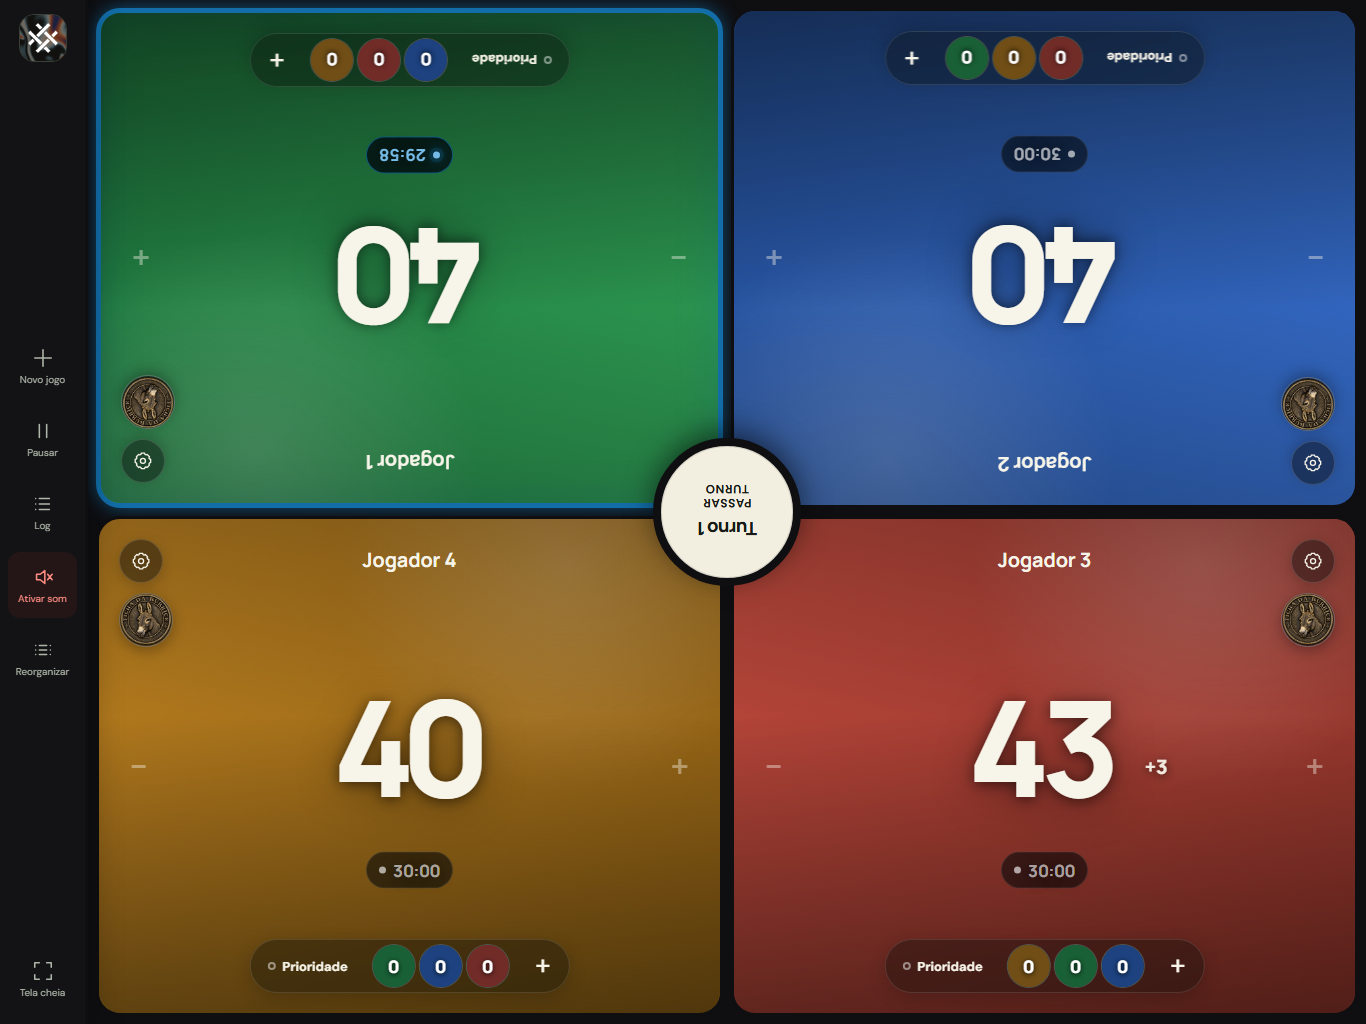
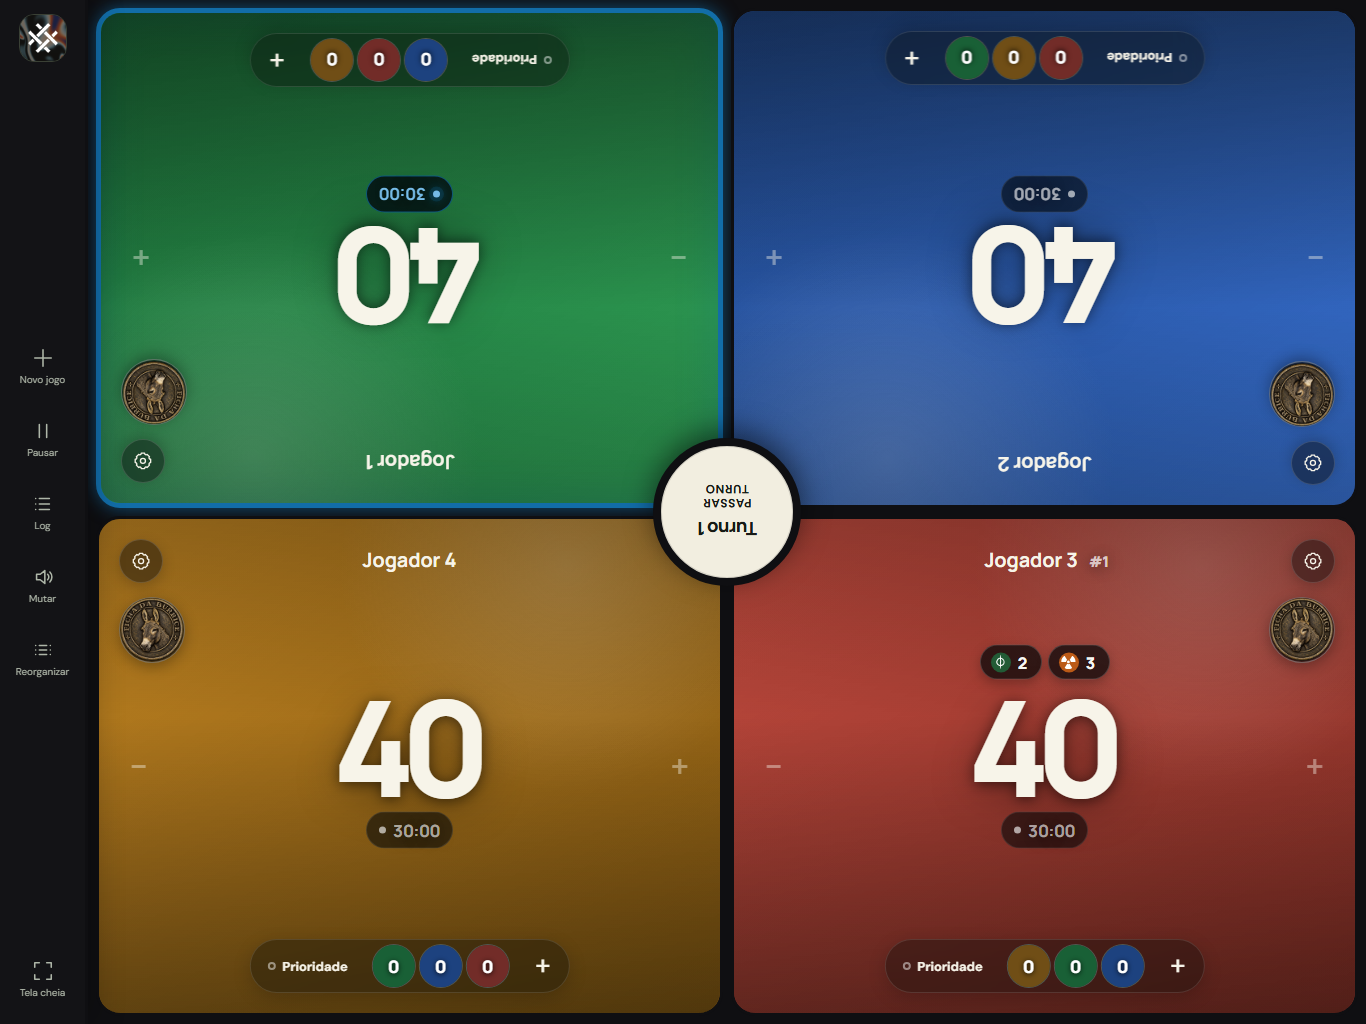
Refine iPad interactions and player status layout
Amp-Thread-ID: https://ampcode.com/threads/T-01a0a220-c48b-71fd-86de-72f752ff429f

diff --git a/app.js b/app.js
@@ -613,7 +613,8 @@ function moveNamesClearOfTurnButton() {
     card.classList.remove('name-near-center');
     const inputRect = input.getBoundingClientRect();
     textContext.font = getComputedStyle(input).font;
-    const textWidth = Math.min(inputRect.width, textContext.measureText(input.value).width + 8);
+    const displayedName = input instanceof HTMLInputElement ? input.value : input.textContent;
+    const textWidth = Math.min(inputRect.width, textContext.measureText(displayedName).width + 8);
     const nameRect = {
       top: inputRect.top,
       right: inputRect.left + (inputRect.width + textWidth) / 2,
@@ -629,6 +630,48 @@ function moveNamesClearOfTurnButton() {
       : buttonRect.bottom - nameRect.top + 8;
     name.style.top = `${parseFloat(getComputedStyle(name).top) + clearance}px`;
     card.classList.add('name-near-center');
+  });
+}
+
+function bindPlayerNameButton(button, player, fallbackName) {
+  button.textContent = player.name;
+  button.addEventListener('click', (event) => {
+    event.stopPropagation();
+    const input = document.createElement('input');
+    input.className = 'player-name is-editing';
+    input.maxLength = 20;
+    input.setAttribute('aria-label', 'Nome do jogador');
+    input.value = player.name;
+    const sizeNameInput = () => {
+      input.style.width = `${Math.min(21, Math.max(3, input.value.length + 1))}ch`;
+    };
+    sizeNameInput();
+    button.replaceWith(input);
+    input.focus({ preventScroll: true });
+    input.select();
+    let finished = false;
+    const finish = (saveChanges = true) => {
+      if (finished) return;
+      finished = true;
+      if (saveChanges) {
+        player.name = input.value.trim() || fallbackName;
+        savePlayerProfile(player);
+        saveState();
+      }
+      const nextButton = document.createElement('button');
+      nextButton.type = 'button';
+      nextButton.className = 'player-name';
+      nextButton.setAttribute('aria-label', 'Editar nome do jogador');
+      input.replaceWith(nextButton);
+      bindPlayerNameButton(nextButton, player, fallbackName);
+      moveNamesClearOfTurnButton();
+    };
+    input.addEventListener('blur', () => finish());
+    input.addEventListener('input', sizeNameInput);
+    input.addEventListener('keydown', (keyEvent) => {
+      if (keyEvent.key === 'Enter') input.blur();
+      if (keyEvent.key === 'Escape') finish(false);
+    });
   });
 }
 
@@ -662,16 +705,10 @@ function render() {
       card.classList.add('has-image');
     }
 
-    const nameInput = card.querySelector('.player-name');
-    nameInput.disabled = isReordering;
-    nameInput.value = player.name;
-    nameInput.addEventListener('click', (event) => event.stopPropagation());
-    nameInput.addEventListener('change', () => {
-      player.name = nameInput.value.trim() || `Jogador ${index + 1}`;
-      nameInput.value = player.name;
-      savePlayerProfile(player);
-      saveState();
-    });
+    const nameButton = card.querySelector('.player-name');
+    nameButton.disabled = isReordering;
+    bindPlayerNameButton(nameButton, player, `Jogador ${index + 1}`);
+    card.querySelector('.first-player-mark').hidden = player.id !== state.roundStartPlayerId;
 
     card.querySelector('.life-total').textContent = player.life;
     card.querySelector('.timer-value').textContent = formatTime(player.timerSeconds);

diff --git a/styles.css b/styles.css
@@ -263,7 +263,8 @@ input, textarea { -webkit-user-select: text; user-select: text; }
 
 .player-name {
   min-width: 0;
-  flex: 1;
+  max-width: 100%;
+  flex: 0 1 auto;
   padding: 2px 4px 4px;
   border: 0;
   border-bottom: 1px solid transparent;
@@ -271,10 +272,21 @@ input, textarea { -webkit-user-select: text; user-select: text; }
   background: transparent;
   color: inherit;
   font: 700 clamp(.9rem, 4cqh, 1.35rem) 'Manrope', sans-serif;
+  cursor: pointer;
   text-align: center;
   text-overflow: ellipsis;
+  white-space: nowrap;
+  overflow: hidden;
 }
-.player-name:focus { border-bottom-color: rgba(255,255,255,.55); }
+.player-name.is-editing { cursor: text; }
+.player-name.is-editing:focus { border-bottom-color: rgba(255,255,255,.55); }
+.first-player-mark {
+  flex: 0 0 auto;
+  color: rgba(255,255,255,.72);
+  font: italic 800 clamp(.7rem, 3cqh, .95rem) 'Manrope', sans-serif;
+  letter-spacing: -.03em;
+}
+.first-player-mark[hidden] { display: none; }
 
 .life-total {
   position: relative;
@@ -295,7 +307,7 @@ input, textarea { -webkit-user-select: text; user-select: text; }
 
 .turn-timer {
   position: absolute;
-  top: 71%;
+  top: 63%;
   bottom: auto;
   display: flex;
   align-items: center;
@@ -371,9 +383,9 @@ input, textarea { -webkit-user-select: text; user-select: text; }
 .foolish-token {
   position: absolute;
   z-index: 4;
-  top: calc(max(12px, 4cqh) + 54px);
-  width: clamp(42px, 12cqh, 54px);
-  height: clamp(42px, 12cqh, 54px);
+  top: calc(max(12px, 4cqh) + 58px);
+  width: clamp(52px, 14cqh, 66px);
+  height: clamp(52px, 14cqh, 66px);
   overflow: hidden;
   padding: 0;
   border: 1px solid rgba(255,255,255,.3);
@@ -393,7 +405,7 @@ input, textarea { -webkit-user-select: text; user-select: text; }
 }
 .player-card.is-opponent .foolish-token {
   top: auto;
-  bottom: calc(max(12px, 4cqh) + 54px);
+  bottom: calc(max(12px, 4cqh) + 58px);
   transform: rotate(180deg);
 }
 .player-card.is-opponent .card-settings:hover { transform: rotate(180deg) translateY(-1px); }

diff --git a/index.html b/index.html
@@ -193,7 +193,8 @@
         <button class="life-zone increase" type="button" aria-label="Aumentar vida"><span aria-hidden="true">+</span></button>
         <div class="player-content">
           <div class="player-name-wrap">
-            <input class="player-name" maxlength="20" aria-label="Nome do jogador" />
+            <button class="player-name" type="button" aria-label="Editar nome do jogador"></button>
+            <i class="first-player-mark" hidden>#1</i>
           </div>
           <div class="player-status-counters" aria-label="Contadores ativos"></div>
           <div class="life-total" aria-live="polite">40</div>
